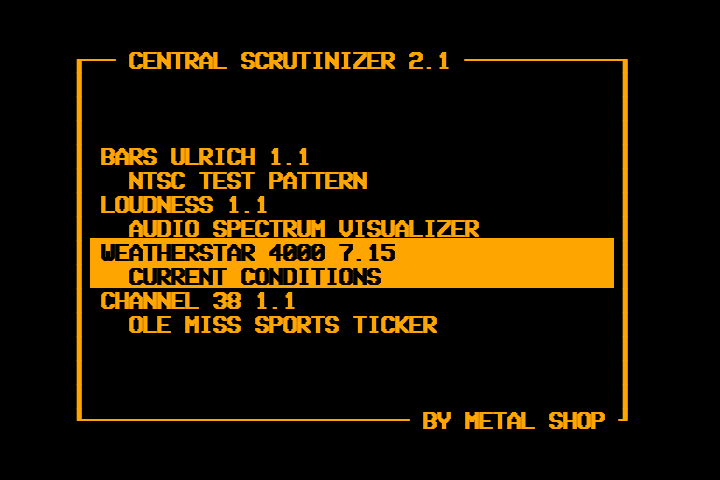
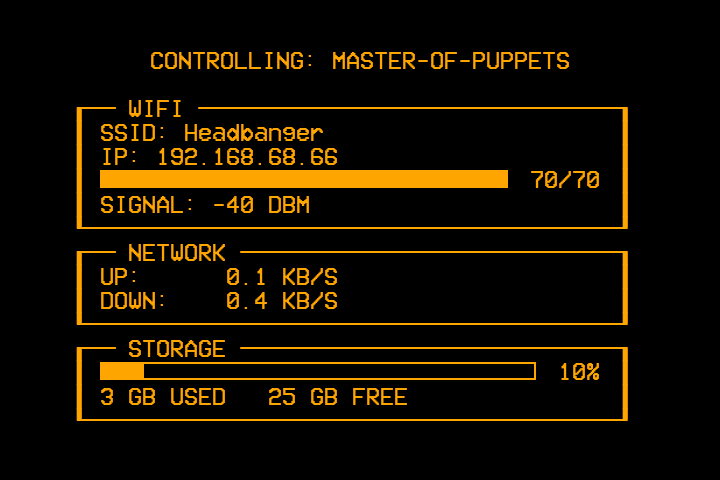
Update screenshots to current fleet-hub UI
Old SCREEN_SCRUTE.png showed the pre-fleet single-Pi menu (Central
Scrutinizer 2.1, 4 apps, no puppet concept). Replaced with a current
remote-monitoring capture and added a second showing the remote app
assignment menu.

Claude-Session: https://claude.ai/code/session_015Ho6FY9pY3ci138zty4wZg

diff --git a/README.md b/README.md
@@ -13,7 +13,9 @@ pygame, direct `/dev/fb0` writes, raw `evdev` keyboard input.
 
 ![Running on a real CRT](./img/TV_SCRUTE.jpg)
 
-![Framebuffer capture](./img/SCREEN_SCRUTE.png)
+![Framebuffer capture -- monitoring a remote puppet](./img/SCREEN_SCRUTE.png)
+
+![Framebuffer capture -- remote app assignment menu](./img/SCREEN_SCRUTE_MENU.png)
 
 **Runs on exactly one machine in a fleet** -- the one with a USB remote
 attached. Every other fleet machine ("puppet") runs
